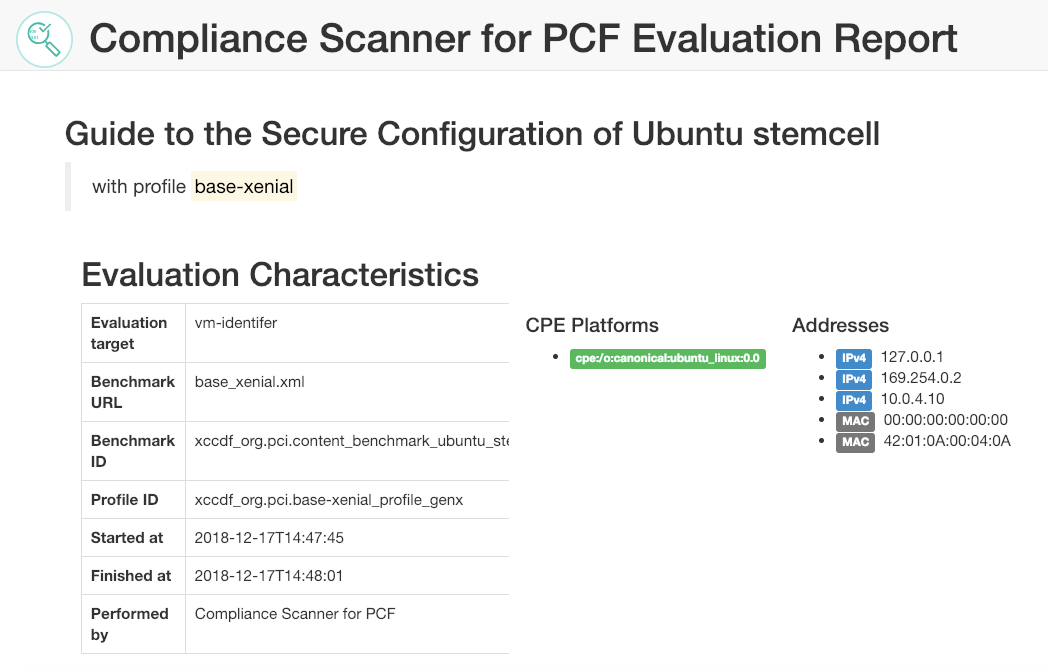
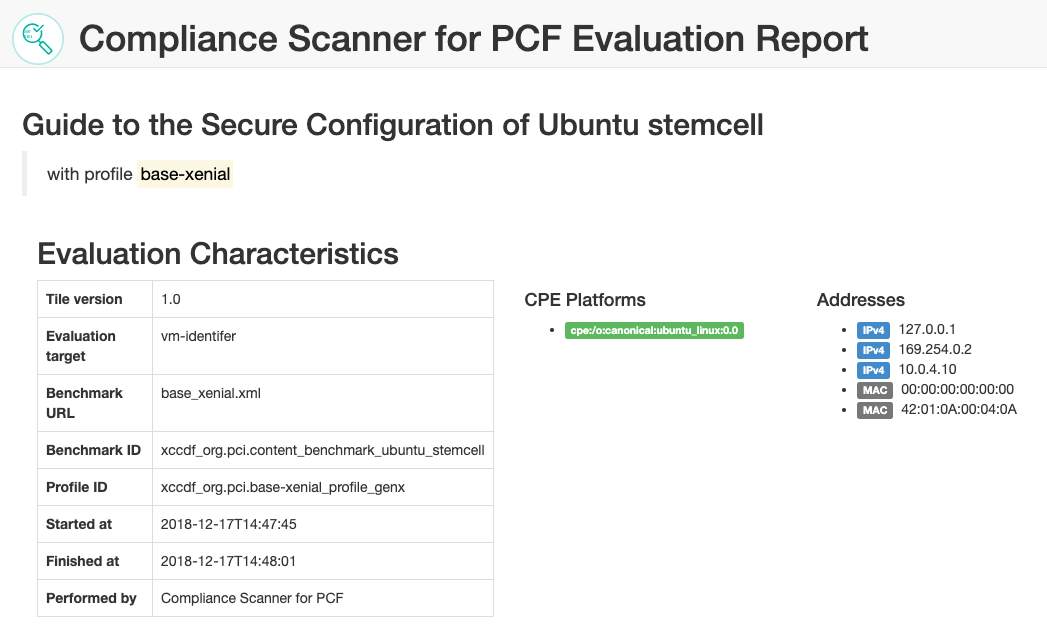
Add a version number to the sample output [#165979252]

diff --git a/base_xenial_sample.html b/base_xenial_sample.html
@@ -26,7 +26,7 @@ padding:"inner"+a,content:b,"":"outer"+a},function(c,d){n.fn[d]=function(d,e){va
 	.st4{fill:none;}
 	.st5{font-family:'GothamRounded-Bold';}
 	.st6{font-size:4.2656px;}
-</style><g><g><circle class="st0" cx="26" cy="26" r="25.2"></circle><path class="st1" d="M26,1.6c13.4,0,24.4,10.9,24.4,24.4S39.4,50.4,26,50.4S1.6,39.4,1.6,26S12.6,1.6,26,1.6 M26,0    C11.6,0,0,11.6,0,26s11.6,26,26,26s26-11.6,26-26S40.4,0,26,0L26,0z"></path></g><circle class="st2" cx="20.4" cy="20.4" r="7.5"></circle><path class="st3" d="M36.7,41.7c-0.4,0-0.8-0.2-1-0.4l-8.5-8.5c-0.6-0.6-0.6-1.5,0-2.1l2.5-2.5c0.3-0.3,0.6-0.4,1-0.4   s0.8,0.2,1,0.4l8.5,8.5c0.3,0.3,0.4,0.6,0.4,1c0,0.4-0.2,0.8-0.4,1l-2.5,2.5C37.5,41.5,37.1,41.7,36.7,41.7z M36.8,40.1L36.8,40.1   L36.8,40.1z M28.4,31.7l8.3,8.3l2.3-2.3l-8.3-8.3L28.4,31.7z"></path><path class="st3" d="M28.4,30.1c-0.2,0-0.4-0.1-0.6-0.2l-1.7-1.7c-0.3-0.3-0.3-0.8,0-1.1c0.3-0.3,0.8-0.3,1.1,0l1.7,1.7   c0.3,0.3,0.3,0.8,0,1.1C28.8,30,28.6,30.1,28.4,30.1z"></path><rect x="12.1" y="16.9" class="st4" width="10.6" height="8.3"></rect><text transform="matrix(1 0 0 1 12.0967 20.0498)"><tspan x="0" y="0" class="st3 st5 st6">100</tspan><tspan x="0" y="5.1" class="st3 st5 st6">0101</tspan></text><g><path class="st3" d="M28.4,18.3c0.2,0.7,0.3,1.3,0.3,2c0,4.6-3.7,8.3-8.3,8.3s-8.3-3.7-8.3-8.3c0-4.6,3.7-8.3,8.3-8.3    c2.1,0,3.9,0.8,5.4,2l1.2-1.2c-1.7-1.5-4-2.5-6.5-2.5c-5.5,0-9.9,4.4-9.9,9.9c0,5.5,4.4,9.9,9.9,9.9s9.9-4.4,9.9-9.9    c0-1.2-0.2-2.3-0.6-3.3L28.4,18.3z"></path><path class="st3" d="M24.8,19.3c-0.2,0-0.4-0.1-0.6-0.2l-3.3-3.3l1.1-1.1l2.8,2.8l6.2-6.2l1.1,1.1L25.3,19    C25.2,19.2,25,19.3,24.8,19.3z"></path></g></g></svg></a><div><h1>Compliance Scanner for PCF Evaluation Report</h1></div></div></nav><div class="container"><div id="content"><div id="introduction"><div class="row"><h2>Guide to the Secure Configuration of Ubuntu stemcell</h2><blockquote>with profile <mark>base-xenial</mark></blockquote><div class="col-md-12 well well-lg horizontal-scroll"><div class="front-matter"></div></div></div></div><div id="characteristics"><h2>Evaluation Characteristics</h2><div class="row"><div class="col-md-5 well well-lg horizontal-scroll"><table class="table table-bordered"><tr><th>Evaluation target</th><td>vm-identifer</td></tr><tr><th>Benchmark URL</th><td>base_xenial.xml</td></tr><tr><th>Benchmark ID</th><td>xccdf_org.pci.content_benchmark_ubuntu_stemcell</td></tr><tr><th>Profile ID</th><td>xccdf_org.pci.base-xenial_profile_genx</td></tr><tr><th>Started at</th><td>2018-12-17T14:47:45</td></tr><tr><th>Finished at</th><td>2018-12-17T14:48:01</td></tr><tr><th>Performed by</th><td>
+</style><g><g><circle class="st0" cx="26" cy="26" r="25.2"></circle><path class="st1" d="M26,1.6c13.4,0,24.4,10.9,24.4,24.4S39.4,50.4,26,50.4S1.6,39.4,1.6,26S12.6,1.6,26,1.6 M26,0    C11.6,0,0,11.6,0,26s11.6,26,26,26s26-11.6,26-26S40.4,0,26,0L26,0z"></path></g><circle class="st2" cx="20.4" cy="20.4" r="7.5"></circle><path class="st3" d="M36.7,41.7c-0.4,0-0.8-0.2-1-0.4l-8.5-8.5c-0.6-0.6-0.6-1.5,0-2.1l2.5-2.5c0.3-0.3,0.6-0.4,1-0.4   s0.8,0.2,1,0.4l8.5,8.5c0.3,0.3,0.4,0.6,0.4,1c0,0.4-0.2,0.8-0.4,1l-2.5,2.5C37.5,41.5,37.1,41.7,36.7,41.7z M36.8,40.1L36.8,40.1   L36.8,40.1z M28.4,31.7l8.3,8.3l2.3-2.3l-8.3-8.3L28.4,31.7z"></path><path class="st3" d="M28.4,30.1c-0.2,0-0.4-0.1-0.6-0.2l-1.7-1.7c-0.3-0.3-0.3-0.8,0-1.1c0.3-0.3,0.8-0.3,1.1,0l1.7,1.7   c0.3,0.3,0.3,0.8,0,1.1C28.8,30,28.6,30.1,28.4,30.1z"></path><rect x="12.1" y="16.9" class="st4" width="10.6" height="8.3"></rect><text transform="matrix(1 0 0 1 12.0967 20.0498)"><tspan x="0" y="0" class="st3 st5 st6">100</tspan><tspan x="0" y="5.1" class="st3 st5 st6">0101</tspan></text><g><path class="st3" d="M28.4,18.3c0.2,0.7,0.3,1.3,0.3,2c0,4.6-3.7,8.3-8.3,8.3s-8.3-3.7-8.3-8.3c0-4.6,3.7-8.3,8.3-8.3    c2.1,0,3.9,0.8,5.4,2l1.2-1.2c-1.7-1.5-4-2.5-6.5-2.5c-5.5,0-9.9,4.4-9.9,9.9c0,5.5,4.4,9.9,9.9,9.9s9.9-4.4,9.9-9.9    c0-1.2-0.2-2.3-0.6-3.3L28.4,18.3z"></path><path class="st3" d="M24.8,19.3c-0.2,0-0.4-0.1-0.6-0.2l-3.3-3.3l1.1-1.1l2.8,2.8l6.2-6.2l1.1,1.1L25.3,19    C25.2,19.2,25,19.3,24.8,19.3z"></path></g></g></svg></a><div><h1>Compliance Scanner for PCF Evaluation Report</h1></div></div></nav><div class="container"><div id="content"><div id="introduction"><div class="row"><h2>Guide to the Secure Configuration of Ubuntu stemcell</h2><blockquote>with profile <mark>base-xenial</mark></blockquote><div class="col-md-12 well well-lg horizontal-scroll"><div class="front-matter"></div></div></div></div><div id="characteristics"><h2>Evaluation Characteristics</h2><div class="row"><div class="col-md-5 well well-lg horizontal-scroll"><table class="table table-bordered"><tr><th>Tile version</th><td>1.0</td></tr><tr><th>Evaluation target</th><td>vm-identifer</td></tr><tr><th>Benchmark URL</th><td>base_xenial.xml</td></tr><tr><th>Benchmark ID</th><td>xccdf_org.pci.content_benchmark_ubuntu_stemcell</td></tr><tr><th>Profile ID</th><td>xccdf_org.pci.base-xenial_profile_genx</td></tr><tr><th>Started at</th><td>2018-12-17T14:47:45</td></tr><tr><th>Finished at</th><td>2018-12-17T14:48:01</td></tr><tr><th>Performed by</th><td>
                           Compliance Scanner for PCF
                         </td></tr></table></div><div class="col-md-3 horizontal-scroll"><h4>CPE Platforms</h4><ul class="list-group"><li class="list-group-item"><span class="label label-success" title="CPE platform cpe:/o:canonical:ubuntu_linux:0.0 was found applicable on the evaluated machine">cpe:/o:canonical:ubuntu_linux:0.0</span></li></ul></div><div class="col-md-4 horizontal-scroll"><h4>Addresses</h4><ul class="list-group"><li class="list-group-item"><span class="label label-primary">IPv4</span>
                              127.0.0.1</li><li class="list-group-item"><span class="label label-primary">IPv4</span>
